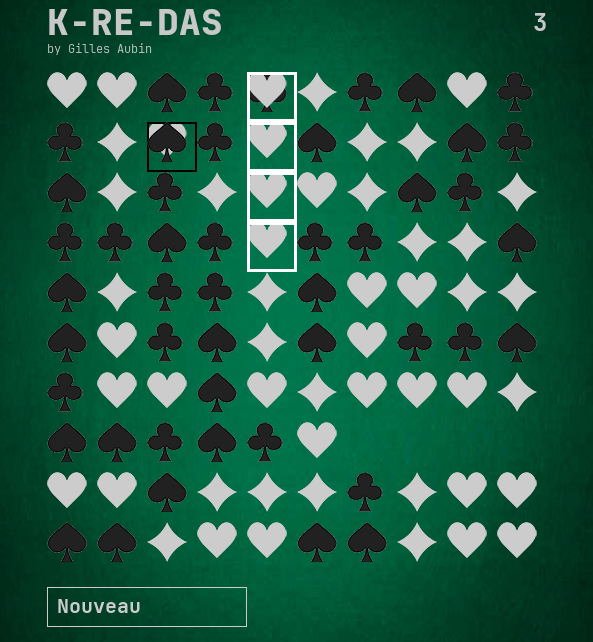
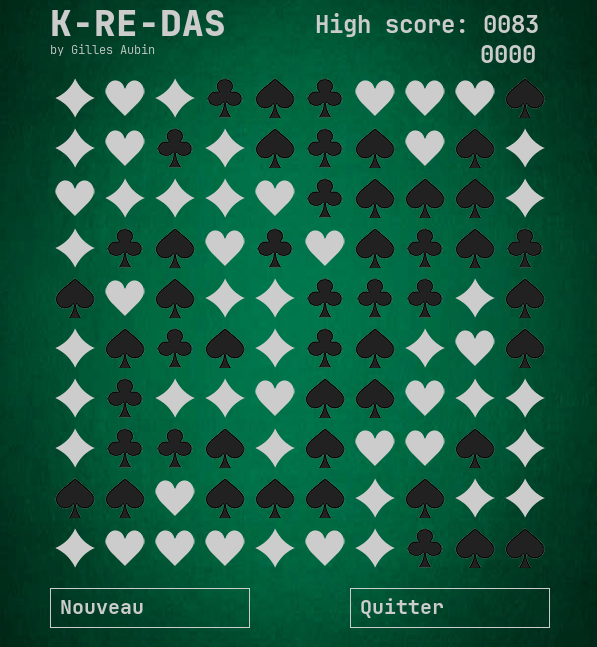
Sauvegarde, Quitter, High Score

Changed region(s): [[0.0607, 0.0, 0.941, 0.9657], [0.0607, 0.9034, 0.425, 0.9969], [0.9106, 0.9034, 0.941, 0.9657]]

diff --git a/K-RE-DAS.py b/K-RE-DAS.py
@@ -52,6 +52,27 @@ for i in range(10):
         row.append((grid_x + j * cell_size, grid_y + i * cell_size))
     positions.append(row)
 
+#########
+# SCORE #
+#########
+
+# Lecture ou création du fichier de score
+def get_high_score():
+    try:
+        with open('high_score.txt', 'r') as f:
+            return int(f.read())
+    except FileNotFoundError:
+        return 0
+
+# Sauvegarde du score
+def save_high_score(high_score):
+    with open('high_score.txt', 'w') as f:
+        f.write(str(high_score))
+
+# Charger la variable score avec celui contenu dans le fichier
+high_score = get_high_score()
+
+
 # Fonction qui vérifie l'alignement de 4 symboles
 def check_alignments(grid):
     to_delete = []
@@ -97,7 +118,11 @@ def draw_grid():
                 if (i, j) in to_delete:
                     pygame.draw.rect(window, (255, 255, 255), (pos[0], pos[1], cell_size, cell_size), 3)
 
-# Dessiner le bouton
+###########
+# BOUTONS #
+###########
+
+# Dessiner le bouton Nouveau
 width_new = 200
 height_new = 40
 posX_new = 50
@@ -105,17 +130,44 @@ posY_new = 590
 posX_text_new = posX_new + 10
 posY_text_new = posY_new + 5
 
-def draw_button():
+# Dessiner le bouton Quitter
+width_quit = 200
+height_quit = 40
+posX_quit = 350
+posY_quit = 590
+posX_text_quit = posX_quit + 10
+posY_text_quit = posY_quit + 5
+
+def draw_button_new():
     pygame.draw.rect(window, color_White, (posX_new, posY_new, width_new, height_new),1)
     font_new = pygame.font.Font("font/JetBrainsMono-Bold.ttf", 20)
     text_new = font_new.render("Nouveau", True, color_White) 
     window.blit(text_new, (posX_text_new, posY_text_new)) 
 
-# Détecter le clic sur le bouton
-def click_on_button(mouse_pos):
+def draw_button_quit():
+    pygame.draw.rect(window, color_White, (posX_quit, posY_quit, width_quit, height_quit),1)
+    font_quit = pygame.font.Font("font/JetBrainsMono-Bold.ttf", 20)
+    text_quit = font_quit.render("Quitter", True, color_White) 
+    window.blit(text_quit, (posX_text_quit, posY_text_quit)) 
+
+# Détecter le clic sur le bouton Nouveau
+def click_on_button_new(mouse_pos):
     if posX_new < mouse_pos[0] < (posX_new + width_new) and posY_new < mouse_pos[1] < (posY_new + height_new): 
         return True
     return False
+
+# Détecter le clic sur le bouton Nouveau
+def click_on_button_quit(mouse_pos):
+    if posX_quit < mouse_pos[0] < (posX_quit + width_quit) and posY_quit < mouse_pos[1] < (posY_quit + height_quit): 
+        return True
+    return False
+
+# Ecrire le high_score
+def update_high_score(score, high_score):
+    if score > high_score:
+        high_score = score
+        save_high_score(high_score)
+    return high_score
 
 # Réinitialiser le jeu
 def reset_game():
@@ -145,20 +197,26 @@ while running:
 
     # Dessiner le titre
     fontTitle = pygame.font.Font("font/JetBrainsMono-ExtraBold.ttf", 36)
-    textTitle = fontTitle.render(game_title, True, (200, 200, 200))
+    textTitle = fontTitle.render(game_title, True, color_White)
     window.blit(textTitle, (margin, margin // 2 - textTitle.get_height() // 2))
 
     # Dessiner le nom de l'auteur
     fontAuthor = pygame.font.Font("font/JetBrainsMono-Light.ttf", 12)
-    textAuthor = fontAuthor.render(game_author, True, (200, 200, 200))
+    textAuthor = fontAuthor.render(game_author, True, color_White)
     window.blit(textAuthor, (margin, margin // 2 + textTitle.get_height() - 30))  # -30 pour le rapprocher du titre
+
+    # Dessiner le score le plus élevé
+    fontHighScore = pygame.font.Font("font/JetBrainsMono-Bold.ttf", 24)
+    textHighScore = fontHighScore.render(f"High score: {high_score:04}", True, color_White)
+    window.blit(textHighScore, (315, 10))
 
     # Dessiner le score
     fontScore = pygame.font.Font("font/JetBrainsMono-Bold.ttf", 24)
-    textScore = fontScore.render(str(score), True, (200, 200, 200))
-    window.blit(textScore, (window_size[0] - textScore.get_width() - margin, margin // 2 - textScore.get_height() // 2 ))
+    textScore = fontScore.render(f"{score:04}", True, color_White)
+    window.blit(textScore, (480, 40))
 
-    draw_button()
+    draw_button_new()
+    draw_button_quit()
 
     to_delete = []
 
@@ -178,9 +236,6 @@ while running:
                     if (i, j) in to_delete:
                         pygame.draw.rect(window, (255, 255, 255), (pos[0], pos[1], cell_size, cell_size), 3)
 
-    # Dessiner le contour
-    # pygame.draw.rect(window, (250, 250, 250), (grid_x, grid_y, 10 * cell_size, 10 * cell_size), 2)
-
     # Mettre à jour l'affichage
     pygame.display.flip()
 
@@ -192,8 +247,13 @@ while running:
         elif event.type == pygame.MOUSEBUTTONUP:
             mouse_pos = pygame.mouse.get_pos()
 
-            if click_on_button(mouse_pos):
+            if click_on_button_new(mouse_pos):
+                high_score = update_high_score(score, high_score)
                 reset_game()
+
+            if click_on_button_quit(mouse_pos):
+                high_score = update_high_score(score, high_score)
+                running = False
 
             cell_x = (mouse_pos[0] - grid_x) // cell_size
             cell_y = (mouse_pos[1] - grid_y) // cell_size
@@ -230,7 +290,7 @@ while running:
                         for pos in alignments:
                             if len(pos) == 2:
                                 i, j = pos
-                                pygame.draw.rect(window, (255, 255, 255), (positions[i][j][0], positions[i][j][1], cell_size, cell_size), 3)
+                                pygame.draw.rect(window, color_White, (positions[i][j][0], positions[i][j][1], cell_size, cell_size), 1)
 
                         pygame.display.flip()  # Mettre à jour l'affichage pour montrer la surbrillance
                         pygame.time.wait(500)  # Attendre 500 millisecondes (0.5 seconde)
@@ -246,6 +306,7 @@ while running:
                         draw_grid()
                         pygame.display.flip()  # Mettre à jour l'affichage pour montrer la surbrillance
 
+high_score = update_high_score(score, high_score)
 
 # Quitter Pygame une fois la boucle terminée
 pygame.quit()

diff --git a/README.md b/README.md
@@ -1,6 +1,10 @@
 # K-RE-DAS
 *pour Windows - développement en cours*
 - Puzzle game avec les symboles du **POKER**
-- Déplacez les symboles pour en **aligner 4** (un carré d'as) et les faire disparaître.
-- 
+- Déplacez les symboles pour en **aligner au moins 4** (un carré d'as) et les faire disparaître.
+- Attention, une case vide ne peut plus être occupée
+- Le jeu sauvegarde le meilleur score
+- Le bouton "Nouveau" réinitialise le jeu
+
+# Capture du jeu actuel
 ![alt tag](https://github.com/gilforge/K-RE-DAS/blob/master/img/K-RE-DAS.png)
